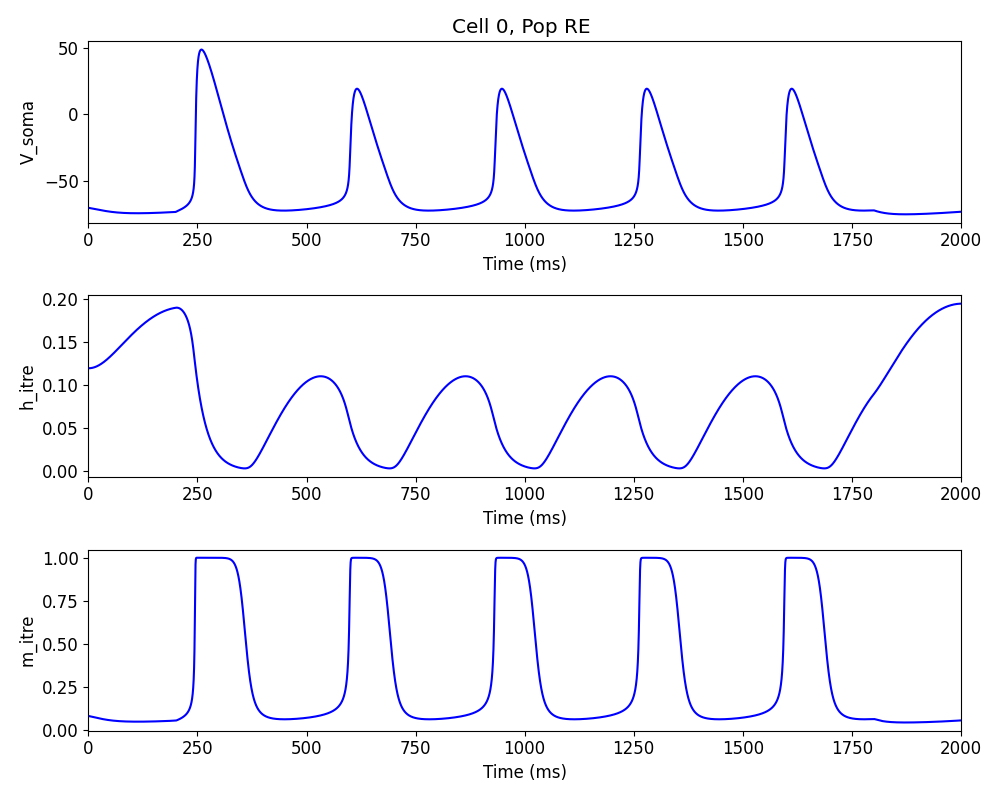
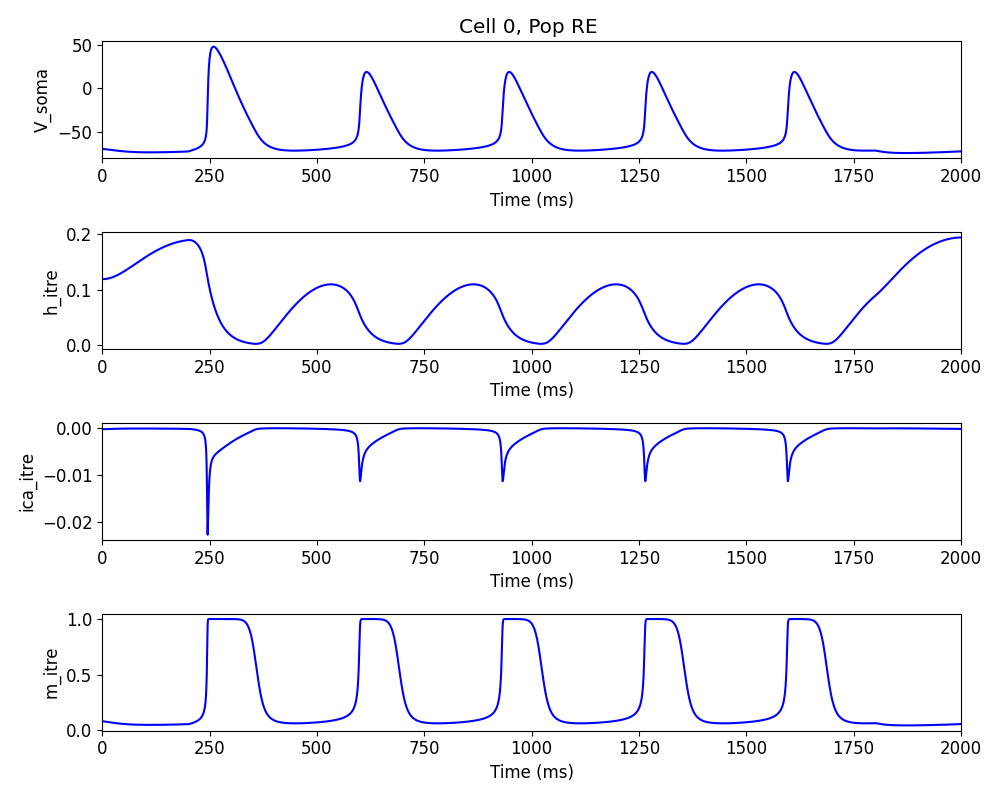
compare nml and netpyne

diff --git a/NeuroML2/compare_MC/RE/omv_test.py b/NeuroML2/compare_MC/RE/omv_test.py
@@ -10,9 +10,7 @@ Copyright 2022 Ankur Sinha
 Author: Ankur Sinha <sanjay DOT ankur AT gmail DOT com>
 """
 
-
 import random
-
 import yaml
 import neuroml
 from neuroml.loaders import read_neuroml2_file
@@ -44,7 +42,6 @@ from pyneuroml.analysis import generate_current_vs_frequency_curve
 random.seed(1412)
 
 def step_current_omv():
-    """Create a step current simulation OMV LEMS file"""
     netdoc = read_neuroml2_file("RE_reduced_cell.nml")
     RE_reduced_cell = netdoc.cells[0]
     net = netdoc.add(neuroml.Network, id="RE_reduced_cell_net", type="networkWithTemperature", temperature="34 degC", validate=False)
@@ -57,7 +54,6 @@ def step_current_omv():
         )
     )
 
-    # Add these to cells
     input_list1 = net.add(
         neuroml.InputList(id="input1_list", component=pg1.id, populations=pop.id)
     )
@@ -72,19 +68,21 @@ def step_current_omv():
 
     write_neuroml2_file(netdoc, "RE_reduced_cell.net.nml")
 
-    # Set up recording of IT2 channel states
     recorder_dict = {}
-    channel = "itre"  # Channel we want to record
+    channel = "itre"
     
     channel_doc = read_neuroml2_file(f"{channel}.channel.nml")
     ion_channel_Nernst = channel_doc.ion_channel[0]  
     gates = get_channel_gates(ion_channel_Nernst)
     
-    # Set up recording for each gate
     for gate in gates:
         recorder_dict[f"{gate}_{channel}_state.dat"] = [
             f"{pop.id}[0]/biophys/membraneProperties/itre_soma/{channel}/{gate}/q"
         ]
+    
+    recorder_dict[f"{channel}_iDensity.dat"] = [
+        f"{pop.id}[0]/biophys/membraneProperties/itre_soma/iDensity"
+    ]
 
     generate_lems_file_for_neuroml(
         sim_id="RE_reduced_cell_step_test",
@@ -95,7 +93,7 @@ def step_current_omv():
         lems_file_name="LEMS_RE_reduced_cell_step_test.xml",
         nml_doc=netdoc,
         gen_spike_saves_for_all_somas=True,
-        gen_saves_for_quantities=recorder_dict,  # Add channel state recording
+        gen_saves_for_quantities=recorder_dict,
         target_dir=".",
         copy_neuroml=False
     )
@@ -106,27 +104,42 @@ def step_current_omv():
 
     print(data.keys())
 
-    # Generate plots
     generate_plot(
         xvalues=[data["t"]],
         yvalues=[data["RE_reduced_cell_pop[0]/v"]],
         title="Membrane potential: RE_reduced_cell",
     )
     
-    # Plot IT2 channel states if recorded
     if any("itre" in key for key in data.keys()):
-        itre_states = {k: v for k, v in data.items() if "itre" in k}
-        colors = ['r', 'g', 'b', 'c', 'm', 'y']  # Different colors for each state
+        itre_states = {k: v for k, v in data.items() if "itre" in k and "q" in k}
+        colors = ['r', 'g', 'b', 'c', 'm', 'y']
         
+        if itre_states:
+            generate_plot(
+                xvalues=[data["t"]] * len(itre_states),
+                yvalues=list(itre_states.values()),
+                title="itre Channel States",
+                labels=list(itre_states.keys()),
+                colors=colors[:len(itre_states)],
+                xaxis="time (ms)",
+                yaxis="state value",
+                ylim=[-0.1, 1.1]
+            )
+    
+    iDensity_key = None
+    for key in data.keys():
+        if "iDensity" in key and "itre" in key:
+            iDensity_key = key
+            break
+    
+    if iDensity_key:
         generate_plot(
-            xvalues=[data["t"]] * len(itre_states),
-            yvalues=list(itre_states.values()),
-            title="itre Channel States",
-            labels=list(itre_states.keys()),
-            colors=colors[:len(itre_states)],
+            xvalues=[data["t"]],
+            yvalues=[data[iDensity_key]],
+            title="itre Channel Current Density",
+            labels=[iDensity_key],
             xaxis="time (ms)",
-            yaxis="state value",
-            ylim=[-0.1, 1.1]
+            yaxis="Current Density (A/m²)"
         )
 
 if __name__ == "__main__":

diff --git a/NeuroML2/compare_MC/RE/RE_netpy.py b/NeuroML2/compare_MC/RE/RE_netpy.py
@@ -41,7 +41,8 @@ simConfig.verbose = True           # Show detailed messages
 
 simConfig.recordTraces = {'V_soma':{'sec':'soma','loc':0.5,'var':'v'}, 
                           'm_itre':{'sec': 'soma', 'loc': 0.5, 'mech': 'itre', 'var': 'm'},
-                          'h_itre':{'sec': 'soma', 'loc': 0.5, 'mech': 'itre', 'var': 'h'}}  # Dict with traces to record
+                          'h_itre':{'sec': 'soma', 'loc': 0.5, 'mech': 'itre', 'var': 'h'},
+                          'ica_itre':{'sec': 'soma', 'loc': 0.5, 'mech': 'itre', 'var': 'i'}}  # Dict with traces to record
 
 
 simConfig.recordStep = 0.01            # Step size in ms to save data (eg. V traces, LFP, etc)